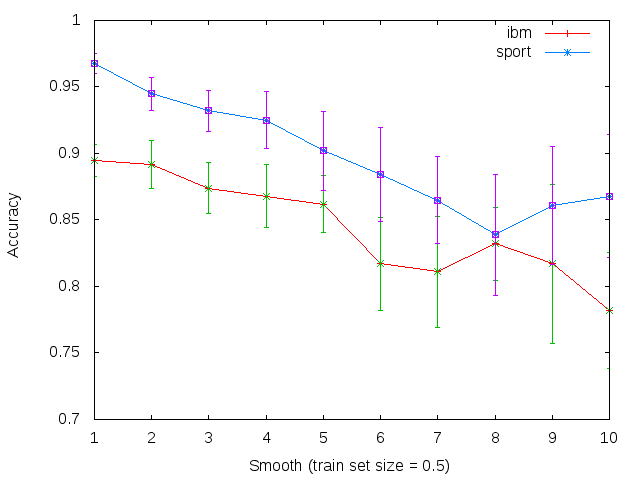
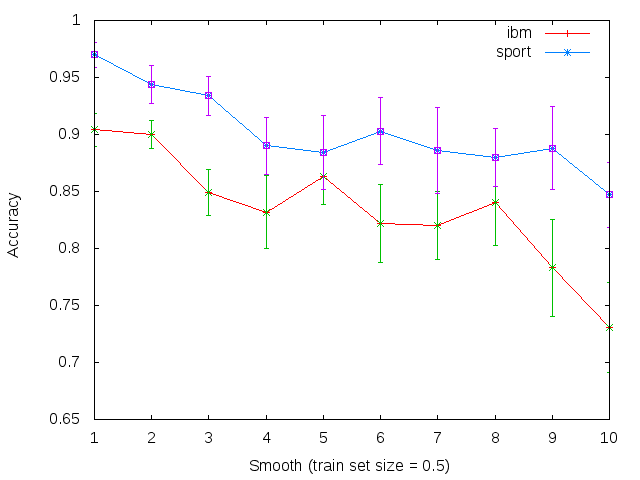
minor

diff --git a/HW1/knn.py b/HW1/knn.py
@@ -68,28 +68,33 @@ def relief(train, m):
         else:
             zeroset.append(inst)
     weight = np.zeros(len(train[0]))
-    posN = [float("inf"), 0]
-    negN = [float("inf"), 0]
     #repeat m times to calculate weight
     for i in range(0, m):
-        pick = train[random.randint(0, len(train) - 1)]
+        posN = [float("inf"), 0]
+        negN = [float("inf"), 0]
+        tmp = random.randint(0, len(train) - 1)
+        pick = train[tmp]
+        
         for inst in oneset:
             if (pick == inst):
                 continue
             dist = Ed(pick, inst)
             if dist < posN[0]:
                     posN = [dist, inst]
-
+        
         for inst in zeroset:
             if (pick == inst):
                 continue
             dist = Ed(pick, inst)
             if dist < negN[0]:
                 negN = [dist, inst] 
-            
-            
-        weight = weight - [abs(pick[i] - posN[1][i]) for i in range(0, len(posN[1]))] + \
-                 [abs(pick[i] - negN[1][i]) for i in range(0, len(negN[1]))]
+        tmp1 = np.absolute(np.array(pick) - np.array(posN[1]))
+        tmp2 = np.absolute(np.array(pick) - np.array(negN[1]))
+
+        if pick[-1] == 1 :
+            weight = weight - tmp1 + tmp2
+        else:
+            weight = weight - tmp2 + tmp1
     #rslt_w is the weight keeping only positive features and changing negative features
     #to 0's
     rslt_w = [weight[i] if (weight[i] > 0) else 0 for i in range(0, len(weight))]
@@ -105,8 +110,8 @@ def relief(train, m):
         for i in range(0, 14):
                 rslt_14[w_index[i][1]]= 1
         for i in range(14, len(w_index) - 1):
-                rslt_14[w_index[i][1]] = 0
-         
+                rslt_14[w_index[i][1]] = 0  
+    
     return (rslt_w, rslt_14)
 
 #calculate distance of two instances, default weight is 1    
@@ -117,7 +122,7 @@ def Ed(p1, p2, *w):
         weight = np.array(w[0])
     sqr = np.array([(p1[i] - p2[i])*(p1[i] - p2[i]) \
                        for i in range(0, len(p1))])
-    
+  
     return math.sqrt(np.dot(sqr[0: -1], weight[0:-1].T))
     
     
@@ -139,7 +144,7 @@ def readData(file) :
         data.append([float(tmp[i]) for i in range(0, len(tmp))])
         line = src.readline()
     src.close()
-    return data    
+    return data 
     
  
                 
@@ -161,7 +166,7 @@ if __name__ == '__main__':
     #result according to weight
     r_w = [0, 0, 0, 0, 0]
     test = readData(args.testfile)
-    
+  
     if(args.relk == 'a' or args.relk == 'o'):
         uniform = np.ones_like(test[0])
         r_o = knn(test, args.nb, uniform)
@@ -172,6 +177,7 @@ if __name__ == '__main__':
     out = open(args.outfile, 'a')
     #only keep accuracy for plotting
     print >> out, "Accuracy   %f  %f  %f" % (r_o[4], r_14[4], r_w[4])
+    #print("Accuracy   %f  %f  %f" % (r_o[4], r_14[4], r_w[4]))
     out.close()
 
  
